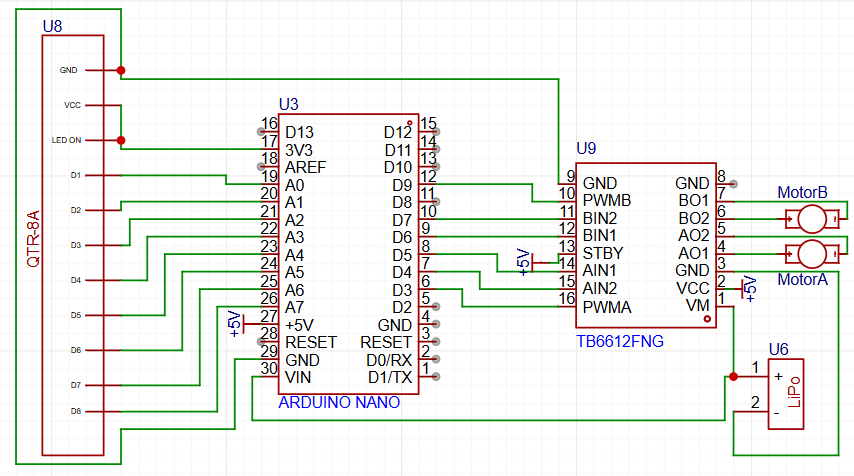
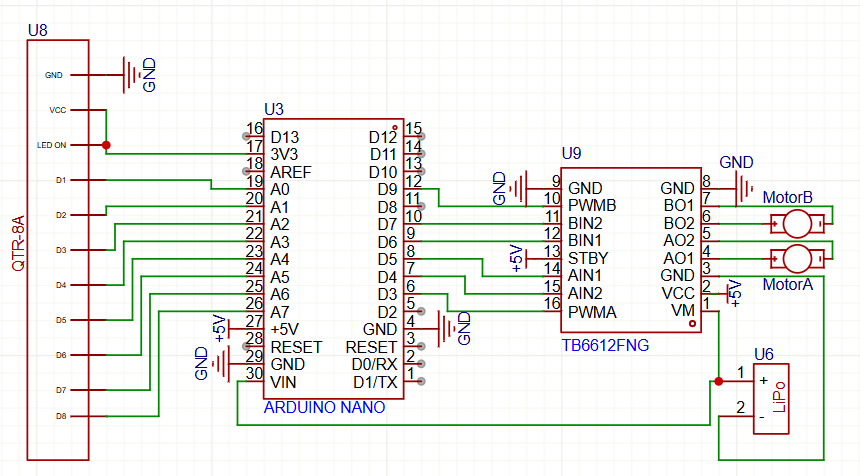
Added gnd symbols and updated readme

Changed region(s): [[0.0, 0.0, 1.0, 1.0]]

diff --git a/Readme.md b/Readme.md
@@ -78,7 +78,7 @@ Just a normal chassis with some holes in it to minimize weight. I haven't comple
 - Order everything in the BOM + a nano or nano clone, QTR 8a, the TB6612FNG motor driver. A large breadboard and an 11v battery, and some basic robotics supplies
 - Assemble the kit according to this [assembly guide](https://blog.jsumo.com/arduino-line-follower-robot-assembly-guide/) until the assembly of QTR 8RC part
 - Put the nano and TB6612FNG motor driver into the breadboard, use double tape to stick the breadboard and battery to the chassis
-- Wire it up as seen in the circuit diagram. I recommend using a buck converter in between the battery and the nano, but most nanos can tolerate 12v so I won't be using any again to save costs
+- Wire it up as seen in the circuit diagram. I recommend using a buck converter in between the battery and the nano, but most Nano clones can tolerate 12v so I won't be using any to save costs also you should connect the power symbols on the PowerLines in the breadboard for conventions sake.
 [- Download Arduino IDE](https://www.arduino.cc/en/software/)
 - Go to libraries, search QTR sensors and go ahead and install it. Here is a picture if you're confused:
   ![Arduino Library Manager](pics/Library.png)
